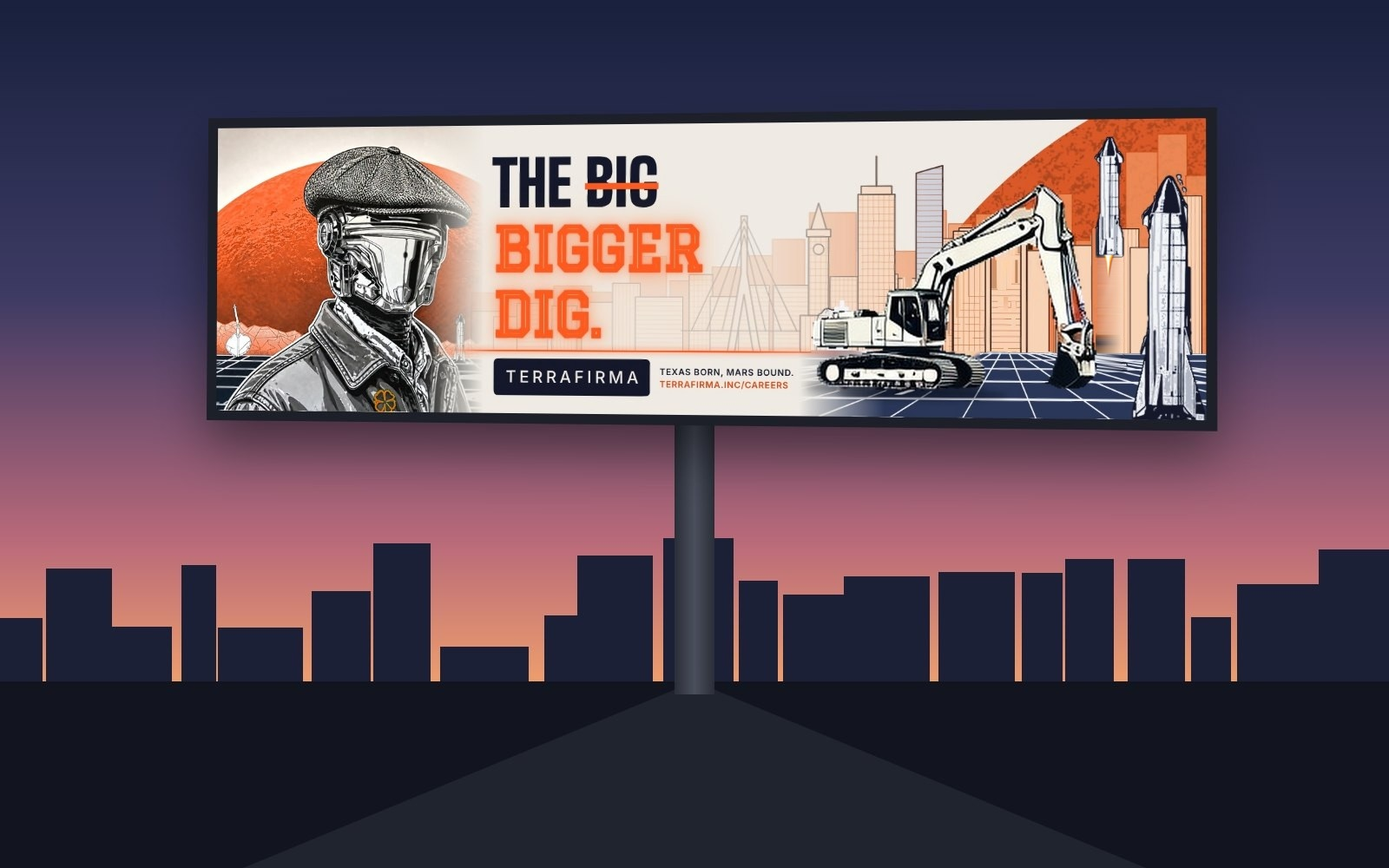
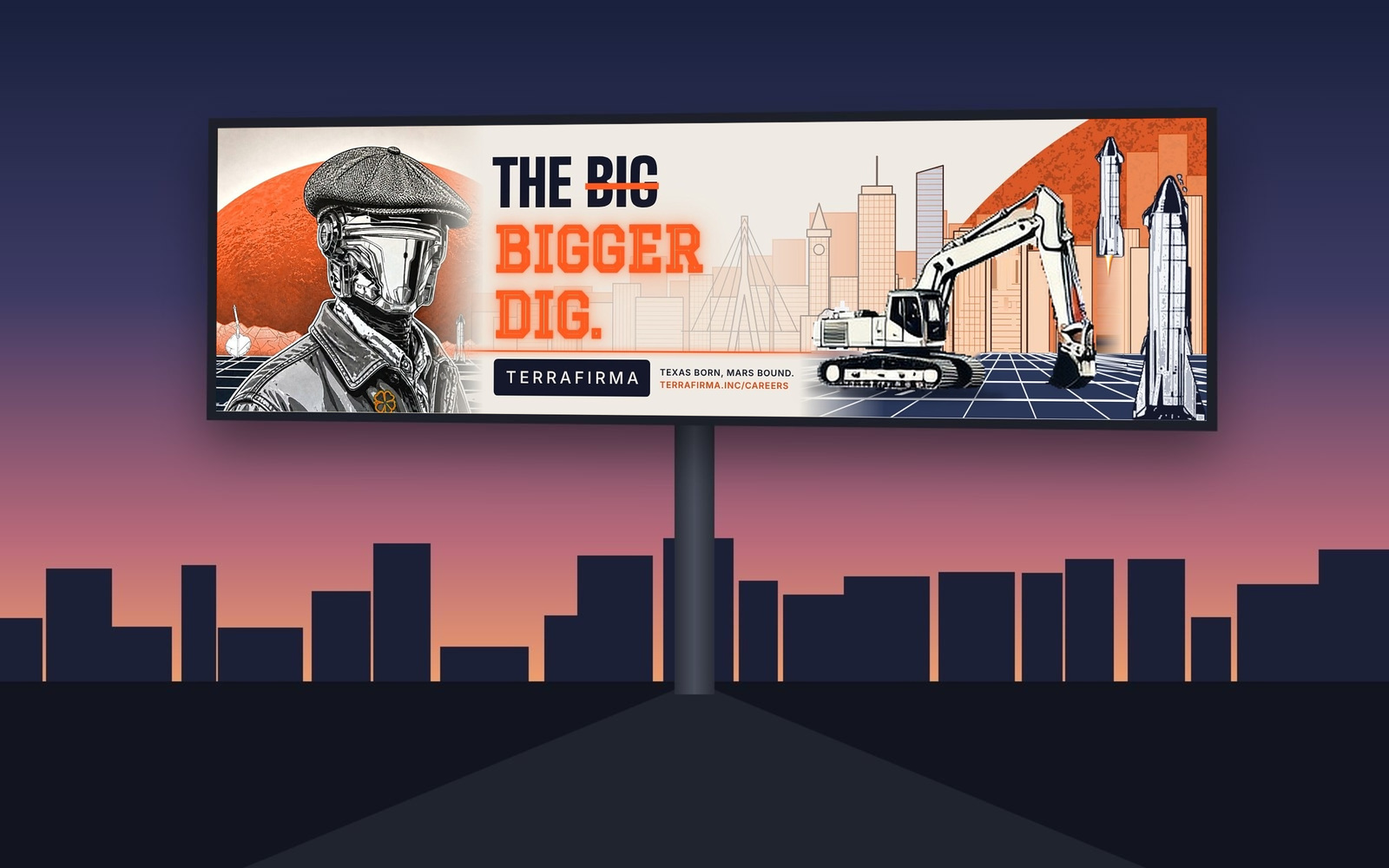
Sharpen TerraFirma city mockups and align Message System heading

Changed region(s): [[0.1562, 0.155, 0.875, 0.496], [0.4375, 0.186, 0.4688, 0.248], [0.3438, 0.186, 0.4062, 0.217]]

diff --git a/public/terrafirma_billboard_campaign/index.html b/public/terrafirma_billboard_campaign/index.html
@@ -346,26 +346,6 @@ footer li{margin-bottom:6px;break-inside:avoid}
 .budget-tots .amt{font:900 clamp(40px,4.6vw,60px)/1 var(--display);margin:6px 0 8px}
 .budget-table td.num,.budget-table th.num{text-align:right;white-space:nowrap}
 /* v2 boards: daylight design, shown in place of the embedded originals */
-img[alt="Austin billboard, flat"],.cover-mosaic a[href="#austin"] img{content:url(/terrafirma_billboard_campaign/img/v2/board-austin.jpg)}
-img[alt="Nashville billboard, flat"],.cover-mosaic a[href="#nashville"] img{content:url(/terrafirma_billboard_campaign/img/v2/board-nashville.jpg)}
-img[alt="Los Angeles billboard, flat"],.cover-mosaic a[href="#la"] img{content:url(/terrafirma_billboard_campaign/img/v2/board-la.jpg)}
-img[alt="San Francisco billboard, flat"],.cover-mosaic a[href="#sf"] img{content:url(/terrafirma_billboard_campaign/img/v2/board-sf.jpg)}
-img[alt="Chicago billboard, flat"],.cover-mosaic a[href="#chicago"] img{content:url(/terrafirma_billboard_campaign/img/v2/board-chicago.jpg)}
-img[alt="Boston billboard, flat"],.cover-mosaic a[href="#boston"] img{content:url(/terrafirma_billboard_campaign/img/v2/board-boston.jpg)}
-img[alt="Miami billboard, flat"],.cover-mosaic a[href="#miami"] img{content:url(/terrafirma_billboard_campaign/img/v2/board-miami.jpg)}
-img[alt="Times Square vertical creative"],.cover-mosaic a[href="#nyc"] img{content:url(/terrafirma_billboard_campaign/img/v2/board-nyc.jpg)}
-img[alt="Washington billboard, flat"],.cover-mosaic a[href="#dc"] img{content:url(/terrafirma_billboard_campaign/img/v2/board-dc.jpg)}
-img[alt="Atlanta billboard, flat"],.cover-mosaic a[href="#atlanta"] img{content:url(/terrafirma_billboard_campaign/img/v2/board-atlanta.jpg)}
-img[alt="Mockup of the Austin billboard in place"]{content:url(/terrafirma_billboard_campaign/img/v2/scene-austin.jpg)}
-img[alt="Mockup of the Nashville billboard in place"]{content:url(/terrafirma_billboard_campaign/img/v2/scene-nashville.jpg)}
-img[alt="Mockup of the Los Angeles billboard in place"]{content:url(/terrafirma_billboard_campaign/img/v2/scene-la.jpg)}
-img[alt="Mockup of the San Francisco billboard in place"]{content:url(/terrafirma_billboard_campaign/img/v2/scene-sf.jpg)}
-img[alt="Mockup of the Chicago billboard in place"]{content:url(/terrafirma_billboard_campaign/img/v2/scene-chicago.jpg)}
-img[alt="Mockup of the Boston billboard in place"]{content:url(/terrafirma_billboard_campaign/img/v2/scene-boston.jpg)}
-img[alt="Mockup of the Miami billboard in place"]{content:url(/terrafirma_billboard_campaign/img/v2/scene-miami.jpg)}
-img[alt="Mockup of the New York billboard in place"]{content:url(/terrafirma_billboard_campaign/img/v2/scene-nyc.jpg)}
-img[alt="Mockup of the Washington billboard in place"]{content:url(/terrafirma_billboard_campaign/img/v2/scene-dc.jpg)}
-img[alt="Mockup of the Atlanta billboard in place"]{content:url(/terrafirma_billboard_campaign/img/v2/scene-atlanta.jpg)}
 .flat.vert{max-width:none}
 .scene figcaption{display:none}
 .cover-mosaic a[href="#miami"]::after,#miami .why>div::after,#miami .scene::after{display:none}
@@ -469,7 +449,7 @@ img[alt="Mockup of the Atlanta billboard in place"]{content:url(/terrafirma_bill
   <span class="mono bin">01000001 01010101 01010011 01010100 01001001 01001110</span>
  </header>
  <figure class="scene">
-  <img src="/terrafirma_billboard_campaign/img/v2/scene-austin.jpg" alt="Mockup of the Austin billboard in place">
+  <img src="/terrafirma_billboard_campaign/img/v2/scene-austin.jpg" srcset="/terrafirma_billboard_campaign/img/v2/scene-austin.jpg 1600w, /terrafirma_billboard_campaign/img/v2/scene-austin@2x.webp 3200w" sizes="(max-width: 1440px) 100vw, 1440px" loading="lazy" decoding="async" alt="Mockup of the Austin billboard in place">
   <figcaption><span class="chip">MOCKUP</span> Replace with a real photo once the billboard is up</figcaption>
  </figure>
  <div class="city-copy">
@@ -484,7 +464,7 @@ img[alt="Mockup of the Atlanta billboard in place"]{content:url(/terrafirma_bill
    <summary>The full Austin plan</summary>
    <div class="fold-body">
     <details class="sub"><summary>Why this billboard works here</summary><div class="sub-body why">
-    <div><img src="/terrafirma_billboard_campaign/img/v2/board-austin.jpg" alt="Austin billboard, flat" class="flat"><p>Austin is home base. I-35 is torn up for the Capital Express rebuild, so every commuter is already thinking about construction. The billboard stands over a live job site and says, in effect, “this is what we do.”</p></div>
+    <div><img src="/terrafirma_billboard_campaign/img/v2/board-austin.jpg" srcset="/terrafirma_billboard_campaign/img/v2/board-austin.jpg 1600w, /terrafirma_billboard_campaign/img/v2/board-austin@2x.webp 3200w" sizes="(max-width: 900px) calc(100vw - 56px), 740px" loading="lazy" decoding="async" alt="Austin billboard, flat" class="flat"><p>Austin is home base. I-35 is torn up for the Capital Express rebuild, so every commuter is already thinking about construction. The billboard stands over a live job site and says, in effect, “this is what we do.”</p></div>
     </div></details>
     <details class="sub"><summary>Formats and cost</summary><div class="sub-body"><dl>
      <dt>Formats</dt><dd><ul><li>Main billboard: a standard 14×48-foot highway billboard (the industry calls this a “bulletin”) on I-35 near downtown</li><li>A real neon sign reading “Building.” in the billboard’s script, built by a local artist for an East Austin venue or Rainey St</li><li>Street posters (“wildposting”) in East Austin and along the edge of the UT campus</li><li>A digital billboard at The Domain, where much of Austin’s tech workforce works and shops</li></ul></dd>
@@ -504,7 +484,7 @@ img[alt="Mockup of the Atlanta billboard in place"]{content:url(/terrafirma_bill
   <span class="mono bin">01001110 01000001 01010011 01001000 01010110 01001001 01001100 01001100 01000101</span>
  </header>
  <figure class="scene">
-  <img src="/terrafirma_billboard_campaign/img/v2/scene-nashville.jpg" alt="Mockup of the Nashville billboard in place">
+  <img src="/terrafirma_billboard_campaign/img/v2/scene-nashville.jpg" srcset="/terrafirma_billboard_campaign/img/v2/scene-nashville.jpg 1600w, /terrafirma_billboard_campaign/img/v2/scene-nashville@2x.webp 3200w" sizes="(max-width: 1440px) 100vw, 1440px" loading="lazy" decoding="async" alt="Mockup of the Nashville billboard in place">
   <figcaption><span class="chip">MOCKUP</span> Replace with a real photo once the billboard is up</figcaption>
  </figure>
  <div class="city-copy">
@@ -519,7 +499,7 @@ img[alt="Mockup of the Atlanta billboard in place"]{content:url(/terrafirma_bill
    <summary>The full Nashville plan</summary>
    <div class="fold-body">
     <details class="sub"><summary>Why this billboard works here</summary><div class="sub-body why">
-    <div><img src="/terrafirma_billboard_campaign/img/v2/board-nashville.jpg" alt="Nashville billboard, flat" class="flat"><p>Nashville calls itself the Athens of the South and built a full-size Parthenon to prove it. The line borrows that pride, puts the Parthenon in the skyline art, and is the one billboard that names Mars in its headline. The Operator wears a rhinestone stage jacket.</p></div>
+    <div><img src="/terrafirma_billboard_campaign/img/v2/board-nashville.jpg" srcset="/terrafirma_billboard_campaign/img/v2/board-nashville.jpg 1600w, /terrafirma_billboard_campaign/img/v2/board-nashville@2x.webp 3200w" sizes="(max-width: 900px) calc(100vw - 56px), 740px" loading="lazy" decoding="async" alt="Nashville billboard, flat" class="flat"><p>Nashville calls itself the Athens of the South and built a full-size Parthenon to prove it. The line borrows that pride, puts the Parthenon in the skyline art, and is the one billboard that names Mars in its headline. The Operator wears a rhinestone stage jacket.</p></div>
     </div></details>
     <details class="sub"><summary>Formats and cost</summary><div class="sub-body"><dl>
      <dt>Formats</dt><dd><ul><li>Main billboard: a digital bulletin on the I-40/I-65 loop</li><li>A hand-painted wall in the Gulch or Wedgewood-Houston</li><li>A digital spot on Lower Broadway, mostly for brand visibility with tourists</li></ul></dd>
@@ -539,7 +519,7 @@ img[alt="Mockup of the Atlanta billboard in place"]{content:url(/terrafirma_bill
   <span class="mono bin">01001100 01001111 01010011 01000001 01001110 01000111 01000101 01001100 01000101 01010011</span>
  </header>
  <figure class="scene">
-  <img src="/terrafirma_billboard_campaign/img/v2/scene-la.jpg" alt="Mockup of the Los Angeles billboard in place">
+  <img src="/terrafirma_billboard_campaign/img/v2/scene-la.jpg" srcset="/terrafirma_billboard_campaign/img/v2/scene-la.jpg 1600w, /terrafirma_billboard_campaign/img/v2/scene-la@2x.webp 3200w" sizes="(max-width: 1440px) 100vw, 1440px" loading="lazy" decoding="async" alt="Mockup of the Los Angeles billboard in place">
   <figcaption><span class="chip">MOCKUP</span> Replace with a real photo once the billboard is up</figcaption>
  </figure>
  <div class="city-copy">
@@ -554,7 +534,7 @@ img[alt="Mockup of the Atlanta billboard in place"]{content:url(/terrafirma_bill
    <summary>The full Los Angeles plan</summary>
    <div class="fold-body">
     <details class="sub"><summary>Why this billboard works here</summary><div class="sub-body why">
-    <div><img src="/terrafirma_billboard_campaign/img/v2/board-la.jpg" alt="Los Angeles billboard, flat" class="flat"><p>LA has one of the deepest pools of aerospace talent in the country, centered in Hawthorne, El Segundo and Long Beach. The Sunset Strip billboard gets TerraFirma noticed, while the 405 billboards reach the engineers it actually wants to hire on their daily commute.</p></div>
+    <div><img src="/terrafirma_billboard_campaign/img/v2/board-la.jpg" srcset="/terrafirma_billboard_campaign/img/v2/board-la.jpg 1600w, /terrafirma_billboard_campaign/img/v2/board-la@2x.webp 3200w" sizes="(max-width: 900px) calc(100vw - 56px), 740px" loading="lazy" decoding="async" alt="Los Angeles billboard, flat" class="flat"><p>LA has one of the deepest pools of aerospace talent in the country, centered in Hawthorne, El Segundo and Long Beach. The Sunset Strip billboard gets TerraFirma noticed, while the 405 billboards reach the engineers it actually wants to hire on their daily commute.</p></div>
     </div></details>
     <details class="sub"><summary>Formats and cost</summary><div class="sub-body"><dl>
      <dt>Formats</dt><dd><ul><li>Main billboard: a landmark billboard on the Sunset Strip, painted as an artist edition</li><li>Bulletins on I-405 and I-105 near the aerospace corridor</li><li>An artist edition of the Operator, commissioned from Retna</li></ul></dd>
@@ -574,7 +554,7 @@ img[alt="Mockup of the Atlanta billboard in place"]{content:url(/terrafirma_bill
   <span class="mono bin">01010011 01000001 01001110 01000110 01010010 01000001 01001110 01000011 01001001 01010011 01000011 01001111</span>
  </header>
  <figure class="scene">
-  <img src="/terrafirma_billboard_campaign/img/v2/scene-sf.jpg" alt="Mockup of the San Francisco billboard in place">
+  <img src="/terrafirma_billboard_campaign/img/v2/scene-sf.jpg" srcset="/terrafirma_billboard_campaign/img/v2/scene-sf.jpg 1600w, /terrafirma_billboard_campaign/img/v2/scene-sf@2x.webp 3200w" sizes="(max-width: 1440px) 100vw, 1440px" loading="lazy" decoding="async" alt="Mockup of the San Francisco billboard in place">
   <figcaption><span class="chip">MOCKUP</span> Replace with a real photo once the billboard is up</figcaption>
  </figure>
  <div class="city-copy">
@@ -589,7 +569,7 @@ img[alt="Mockup of the Atlanta billboard in place"]{content:url(/terrafirma_bill
    <summary>The full San Francisco plan</summary>
    <div class="fold-body">
     <details class="sub"><summary>Why this billboard works here</summary><div class="sub-body why">
-    <div><img src="/terrafirma_billboard_campaign/img/v2/board-sf.jpg" alt="San Francisco billboard, flat" class="flat"><p>The 101 is wall-to-wall AI billboards. Every startup is selling software. A billboard about dirt, concrete and data-center pads stands out by being physical, and it answers the AI boom on its home turf.</p></div>
+    <div><img src="/terrafirma_billboard_campaign/img/v2/board-sf.jpg" srcset="/terrafirma_billboard_campaign/img/v2/board-sf.jpg 1600w, /terrafirma_billboard_campaign/img/v2/board-sf@2x.webp 3200w" sizes="(max-width: 900px) calc(100vw - 56px), 740px" loading="lazy" decoding="async" alt="San Francisco billboard, flat" class="flat"><p>The 101 is wall-to-wall AI billboards. Every startup is selling software. A billboard about dirt, concrete and data-center pads stands out by being physical, and it answers the AI boom on its home turf.</p></div>
     </div></details>
     <details class="sub"><summary>Formats and cost</summary><div class="sub-body"><dl>
      <dt>Formats</dt><dd><ul><li>Main billboard: a mid-priced bulletin on the 101 skyway</li><li>Teaser: a billboard showing only the city’s name in binary, up two weeks before launch</li><li>Street posters in SoMa, Mission Bay and around the Caltrain station at 4th &amp; King</li></ul></dd>
@@ -609,7 +589,7 @@ img[alt="Mockup of the Atlanta billboard in place"]{content:url(/terrafirma_bill
   <span class="mono bin">01000011 01001000 01001001 01000011 01000001 01000111 01001111</span>
  </header>
  <figure class="scene">
-  <img src="/terrafirma_billboard_campaign/img/v2/scene-chicago.jpg" alt="Mockup of the Chicago billboard in place">
+  <img src="/terrafirma_billboard_campaign/img/v2/scene-chicago.jpg" srcset="/terrafirma_billboard_campaign/img/v2/scene-chicago.jpg 1600w, /terrafirma_billboard_campaign/img/v2/scene-chicago@2x.webp 3200w" sizes="(max-width: 1440px) 100vw, 1440px" loading="lazy" decoding="async" alt="Mockup of the Chicago billboard in place">
   <figcaption><span class="chip">MOCKUP</span> Replace with a real photo once the billboard is up</figcaption>
  </figure>
  <div class="city-copy">
@@ -624,7 +604,7 @@ img[alt="Mockup of the Atlanta billboard in place"]{content:url(/terrafirma_bill
    <summary>The full Chicago plan</summary>
    <div class="fold-body">
     <details class="sub"><summary>Why this billboard works here</summary><div class="sub-body why">
-    <div><img src="/terrafirma_billboard_campaign/img/v2/board-chicago.jpg" alt="Chicago billboard, flat" class="flat"><p>Chicago is proud of doing things deeper and bigger than anyone, starting with its pizza. The joke lands in two seconds and makes hard work feel approachable. It also pairs with Boston's 'Bigger Dig', so the two billboards read as a series. The Operator wears a trapper hat and winter parka because Chicago crews work through January.</p></div>
+    <div><img src="/terrafirma_billboard_campaign/img/v2/board-chicago.jpg" srcset="/terrafirma_billboard_campaign/img/v2/board-chicago.jpg 1600w, /terrafirma_billboard_campaign/img/v2/board-chicago@2x.webp 3200w" sizes="(max-width: 900px) calc(100vw - 56px), 740px" loading="lazy" decoding="async" alt="Chicago billboard, flat" class="flat"><p>Chicago is proud of doing things deeper and bigger than anyone, starting with its pizza. The joke lands in two seconds and makes hard work feel approachable. It also pairs with Boston's 'Bigger Dig', so the two billboards read as a series. The Operator wears a trapper hat and winter parka because Chicago crews work through January.</p></div>
     </div></details>
     <details class="sub"><summary>Formats and cost</summary><div class="sub-body"><dl>
      <dt>Formats</dt><dd><ul><li>Main billboard: a bulletin on the Kennedy Expressway</li><li>A “station domination” in the Loop, which means buying every ad in one CTA station</li><li>A hand-painted wall in the West Loop or Fulton Market</li></ul></dd>
@@ -644,7 +624,7 @@ img[alt="Mockup of the Atlanta billboard in place"]{content:url(/terrafirma_bill
   <span class="mono bin">01000010 01001111 01010011 01010100 01001111 01001110</span>
  </header>
  <figure class="scene">
-  <img src="/terrafirma_billboard_campaign/img/v2/scene-boston.jpg" alt="Mockup of the Boston billboard in place">
+  <img src="/terrafirma_billboard_campaign/img/v2/scene-boston.jpg" srcset="/terrafirma_billboard_campaign/img/v2/scene-boston.jpg 1600w, /terrafirma_billboard_campaign/img/v2/scene-boston@2x.webp 3200w" sizes="(max-width: 1440px) 100vw, 1440px" loading="lazy" decoding="async" alt="Mockup of the Boston billboard in place">
   <figcaption><span class="chip">MOCKUP</span> Replace with a real photo once the billboard is up</figcaption>
  </figure>
  <div class="city-copy">
@@ -659,7 +639,7 @@ img[alt="Mockup of the Atlanta billboard in place"]{content:url(/terrafirma_bill
    <summary>The full Boston plan</summary>
    <div class="fold-body">
     <details class="sub"><summary>Why this billboard works here</summary><div class="sub-body why">
-    <div><img src="/terrafirma_billboard_campaign/img/v2/board-boston.jpg" alt="Boston billboard, flat" class="flat"><p>Every Bostonian has a Big Dig story ($2.8B budget, $14.6B bill, 1991–2007). Crossing out 'BIG' and lighting up 'BIGGER' in neon turns the city's longest-running joke into an invitation: the region still has big projects ahead, like the stalled $2B Mass Pike rebuild in Allston and a state goal of 222,000 new homes by 2035. Next time, do it with robots. The Operator wears a tweed scally cap. The Zakim, a Big Dig product, is in the skyline art.</p></div>
+    <div><img src="/terrafirma_billboard_campaign/img/v2/board-boston.jpg" srcset="/terrafirma_billboard_campaign/img/v2/board-boston.jpg 1600w, /terrafirma_billboard_campaign/img/v2/board-boston@2x.webp 3200w" sizes="(max-width: 900px) calc(100vw - 56px), 740px" loading="lazy" decoding="async" alt="Boston billboard, flat" class="flat"><p>Every Bostonian has a Big Dig story ($2.8B budget, $14.6B bill, 1991–2007). Crossing out 'BIG' and lighting up 'BIGGER' in neon turns the city's longest-running joke into an invitation: the region still has big projects ahead, like the stalled $2B Mass Pike rebuild in Allston and a state goal of 222,000 new homes by 2035. Next time, do it with robots. The Operator wears a tweed scally cap. The Zakim, a Big Dig product, is in the skyline art.</p></div>
     </div></details>
     <details class="sub"><summary>Formats and cost</summary><div class="sub-body"><dl>
      <dt>Formats</dt><dd><ul><li>Main billboard: an I-93 bulletin within sight of the Zakim Bridge</li><li>Transit ads and street posters around Kendall Square and MIT</li><li>A presence at the MIT, Northeastern and BU career fairs</li></ul></dd>
@@ -679,7 +659,7 @@ img[alt="Mockup of the Atlanta billboard in place"]{content:url(/terrafirma_bill
   <span class="mono bin">01001101 01001001 01000001 01001101 01001001</span>
  </header>
  <figure class="scene">
-  <img src="/terrafirma_billboard_campaign/img/v2/scene-miami.jpg" alt="Mockup of the Miami billboard in place">
+  <img src="/terrafirma_billboard_campaign/img/v2/scene-miami.jpg" srcset="/terrafirma_billboard_campaign/img/v2/scene-miami.jpg 1600w, /terrafirma_billboard_campaign/img/v2/scene-miami@2x.webp 3200w" sizes="(max-width: 1440px) 100vw, 1440px" loading="lazy" decoding="async" alt="Mockup of the Miami billboard in place">
   <figcaption><span class="chip">MOCKUP</span> Replace with a real photo once the billboard is up</figcaption>
  </figure>
  <div class="city-copy">
@@ -694,7 +674,7 @@ img[alt="Mockup of the Atlanta billboard in place"]{content:url(/terrafirma_bill
    <summary>The full Miami plan</summary>
    <div class="fold-body">
     <details class="sub"><summary>Why this billboard works here</summary><div class="sub-body why">
-    <div><img src="/terrafirma_billboard_campaign/img/v2/board-miami.jpg" alt="Miami billboard, flat" class="flat"><p>Spanish first, because that's how Miami talks. 'Aquí se trabaja' (here, we work) is approachable and proud, and it's what any crew would say about its job site. The Operator wears a guayabera and Panama hat. Wynwood is the country's open-air mural museum, so a painted wall is the most Miami format there is, with the headline in Spanish and the sign-off in English.</p></div>
+    <div><img src="/terrafirma_billboard_campaign/img/v2/board-miami.jpg" srcset="/terrafirma_billboard_campaign/img/v2/board-miami.jpg 1600w, /terrafirma_billboard_campaign/img/v2/board-miami@2x.webp 3200w" sizes="(max-width: 900px) calc(100vw - 56px), 740px" loading="lazy" decoding="async" alt="Miami billboard, flat" class="flat"><p>Spanish first, because that's how Miami talks. 'Aquí se trabaja' (here, we work) is approachable and proud, and it's what any crew would say about its job site. The Operator wears a guayabera and Panama hat. Wynwood is the country's open-air mural museum, so a painted wall is the most Miami format there is, with the headline in Spanish and the sign-off in English.</p></div>
     </div></details>
     <details class="sub"><summary>Formats and cost</summary><div class="sub-body"><dl>
      <dt>Formats</dt><dd><ul><li>Main billboard: a painted wall in Wynwood, done as an artist edition</li><li>An I-95 bulletin near Brickell and downtown</li><li>A pop-up event during Art Basel week (early December)</li></ul></dd>
@@ -714,7 +694,7 @@ img[alt="Mockup of the Atlanta billboard in place"]{content:url(/terrafirma_bill
   <span class="mono bin">01001110 01000101 01010111 01011001 01001111 01010010 01001011</span>
  </header>
  <figure class="scene">
-  <img src="/terrafirma_billboard_campaign/img/v2/scene-nyc.jpg" alt="Mockup of the New York billboard in place">
+  <img src="/terrafirma_billboard_campaign/img/v2/scene-nyc.jpg" srcset="/terrafirma_billboard_campaign/img/v2/scene-nyc.jpg 1600w, /terrafirma_billboard_campaign/img/v2/scene-nyc@2x.webp 3200w" sizes="(max-width: 1440px) 100vw, 1440px" loading="lazy" decoding="async" alt="Mockup of the New York billboard in place">
   <figcaption><span class="chip">MOCKUP</span> Replace with a real photo once the billboard is up</figcaption>
  </figure>
  <div class="city-copy">
@@ -729,7 +709,7 @@ img[alt="Mockup of the Atlanta billboard in place"]{content:url(/terrafirma_bill
    <summary>The full New York plan</summary>
    <div class="fold-body">
     <details class="sub"><summary>Why this billboard works here</summary><div class="sub-body why">
-    <div><img src="/terrafirma_billboard_campaign/img/v2/board-nyc.jpg" alt="Times Square vertical creative" class="flat vert"><p>The Times Square billboard is the photo the whole campaign will be remembered by. The hand-painted wall backs it up: real people painting a billboard by hand to tell you to build with your hands. How it’s made is part of the message.</p></div>
+    <div><img src="/terrafirma_billboard_campaign/img/v2/board-nyc.jpg" srcset="/terrafirma_billboard_campaign/img/v2/board-nyc.jpg 1600w, /terrafirma_billboard_campaign/img/v2/board-nyc@2x.webp 3200w" sizes="(max-width: 900px) calc(100vw - 56px), 740px" loading="lazy" decoding="async" alt="Times Square vertical creative" class="flat vert"><p>The Times Square billboard is the photo the whole campaign will be remembered by. The hand-painted wall backs it up: real people painting a billboard by hand to tell you to build with your hands. How it’s made is part of the message.</p></div>
     </div></details>
     <details class="sub"><summary>Formats and cost</summary><div class="sub-body"><dl>
      <dt>Formats</dt><dd><ul><li>Main billboard: a vertical digital screen in Times Square, either shared in rotation with other ads or bought outright</li><li>A hand-painted wall by Colossal Media</li><li>Ads inside L and G subway cars, which carry Williamsburg’s tech workers</li></ul></dd>
@@ -749,7 +729,7 @@ img[alt="Mockup of the Atlanta billboard in place"]{content:url(/terrafirma_bill
   <span class="mono bin">01010111 01000001 01010011 01001000 01001001 01001110 01000111 01010100 01001111 01001110</span>
  </header>
  <figure class="scene">
-  <img src="/terrafirma_billboard_campaign/img/v2/scene-dc.jpg" alt="Mockup of the Washington billboard in place">
+  <img src="/terrafirma_billboard_campaign/img/v2/scene-dc.jpg" srcset="/terrafirma_billboard_campaign/img/v2/scene-dc.jpg 1600w, /terrafirma_billboard_campaign/img/v2/scene-dc@2x.webp 3200w" sizes="(max-width: 1440px) 100vw, 1440px" loading="lazy" decoding="async" alt="Mockup of the Washington billboard in place">
   <figcaption><span class="chip">MOCKUP</span> Replace with a real photo once the billboard is up</figcaption>
  </figure>
  <div class="city-copy">
@@ -764,7 +744,7 @@ img[alt="Mockup of the Atlanta billboard in place"]{content:url(/terrafirma_bill
    <summary>The full Washington, DC plan</summary>
    <div class="fold-body">
     <details class="sub"><summary>Why this billboard works here</summary><div class="sub-body why">
-    <div><img src="/terrafirma_billboard_campaign/img/v2/board-dc.jpg" alt="Washington billboard, flat" class="flat"><p>TerraFirma already builds for the U.S. government in difficult places overseas. DC is where defense-tech engineers, program managers and civil engineers live, and where everyone has sat through a permitting meeting. “Red dirt” means both Texas soil and Mars. DC itself allows very few billboards, so most of the money goes to the Metro and the Virginia highways.</p></div>
+    <div><img src="/terrafirma_billboard_campaign/img/v2/board-dc.jpg" srcset="/terrafirma_billboard_campaign/img/v2/board-dc.jpg 1600w, /terrafirma_billboard_campaign/img/v2/board-dc@2x.webp 3200w" sizes="(max-width: 900px) calc(100vw - 56px), 740px" loading="lazy" decoding="async" alt="Washington billboard, flat" class="flat"><p>TerraFirma already builds for the U.S. government in difficult places overseas. DC is where defense-tech engineers, program managers and civil engineers live, and where everyone has sat through a permitting meeting. “Red dirt” means both Texas soil and Mars. DC itself allows very few billboards, so most of the money goes to the Metro and the Virginia highways.</p></div>
     </div></details>
     <details class="sub"><summary>Formats and cost</summary><div class="sub-body"><dl>
      <dt>Formats</dt><dd><ul><li>Main billboard: a takeover of every ad in one Metro station (Pentagon or L’Enfant Plaza)</li><li>Digital bulletins on I-395 and I-66 in Northern Virginia</li><li>Street posters in National Landing and Crystal City, where many defense-tech companies are based</li></ul></dd>
@@ -784,7 +764,7 @@ img[alt="Mockup of the Atlanta billboard in place"]{content:url(/terrafirma_bill
   <span class="mono bin">01000001 01010100 01001100 01000001 01001110 01010100 01000001</span>
  </header>
  <figure class="scene">
-  <img src="/terrafirma_billboard_campaign/img/v2/scene-atlanta.jpg" alt="Mockup of the Atlanta billboard in place">
+  <img src="/terrafirma_billboard_campaign/img/v2/scene-atlanta.jpg" srcset="/terrafirma_billboard_campaign/img/v2/scene-atlanta.jpg 1600w, /terrafirma_billboard_campaign/img/v2/scene-atlanta@2x.webp 3200w" sizes="(max-width: 1440px) 100vw, 1440px" loading="lazy" decoding="async" alt="Mockup of the Atlanta billboard in place">
   <figcaption><span class="chip">MOCKUP</span> Replace with a real photo once the billboard is up</figcaption>
  </figure>
  <div class="city-copy">
@@ -799,7 +779,7 @@ img[alt="Mockup of the Atlanta billboard in place"]{content:url(/terrafirma_bill
    <summary>The full Atlanta plan</summary>
    <div class="fold-body">
     <details class="sub"><summary>Why this billboard works here</summary><div class="sub-body why">
-    <div><img src="/terrafirma_billboard_campaign/img/v2/board-atlanta.jpg" alt="Atlanta billboard, flat" class="flat"><p>Atlanta fills data centers as fast as it can build them, and the people who work in “the cloud” rarely think about the ground under it. The line makes that link in six words, and it pairs with San Francisco’s “AI needs ground to stand on.” The Operator wears a bucket hat and bomber jacket.</p></div>
+    <div><img src="/terrafirma_billboard_campaign/img/v2/board-atlanta.jpg" srcset="/terrafirma_billboard_campaign/img/v2/board-atlanta.jpg 1600w, /terrafirma_billboard_campaign/img/v2/board-atlanta@2x.webp 3200w" sizes="(max-width: 900px) calc(100vw - 56px), 740px" loading="lazy" decoding="async" alt="Atlanta billboard, flat" class="flat"><p>Atlanta fills data centers as fast as it can build them, and the people who work in “the cloud” rarely think about the ground under it. The line makes that link in six words, and it pairs with San Francisco’s “AI needs ground to stand on.” The Operator wears a bucket hat and bomber jacket.</p></div>
     </div></details>
     <details class="sub"><summary>Formats and cost</summary><div class="sub-body"><dl>
      <dt>Formats</dt><dd><ul><li>Main billboard: a digital bulletin on the Downtown Connector</li><li>A painted wall on the BeltLine, done as an artist edition</li><li>Street posters around Tech Square and Georgia Tech</li></ul></dd>
@@ -1039,9 +1019,9 @@ img[alt="Mockup of the Atlanta billboard in place"]{content:url(/terrafirma_bill
 <section class="plate" id="system">
  <div class="wrap">
   <div class="plate-num mono"><span>APPENDIX C / MESSAGE SYSTEM</span><span>ONE IDEA, TEN ACCENTS</span></div>
-  <h2>One master line. Local flair in every city.</h2>
+  <h2>One thread, ten local accents.</h2>
   <div class="lockups three">
-   <div><p class="mono">MASTER LINE</p><h3>Ground the future in reality.</h3><p>The core idea of the campaign, used in social bios and press.</p></div>
+   <div><p class="mono">CAMPAIGN THREAD</p><h3>Ground the future in reality.</h3><p>The core idea of the campaign, used in social bios and press.</p></div>
    <div><p class="mono">SIGN-OFF (FROM TERRAFIRMA)</p><h3>Texas Born, Mars Bound.</h3><p>TerraFirma’s own line, from its website. It sits beside the wordmark on every billboard.</p></div>
    <div><p class="mono">THE ETHOS</p><h3>Proof of work.</h3><p>Show the work, not the promise. It guides social posts, the activations and recruiting conversations, but it never appears as a billboard headline.</p></div>
   </div>
